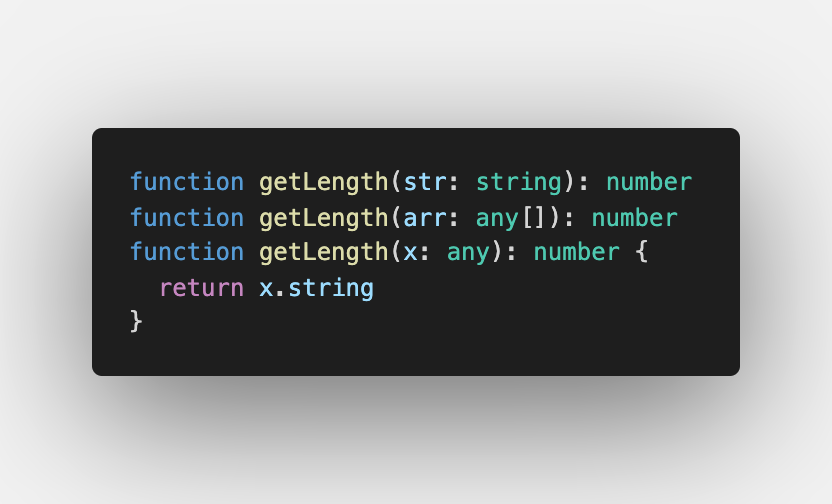
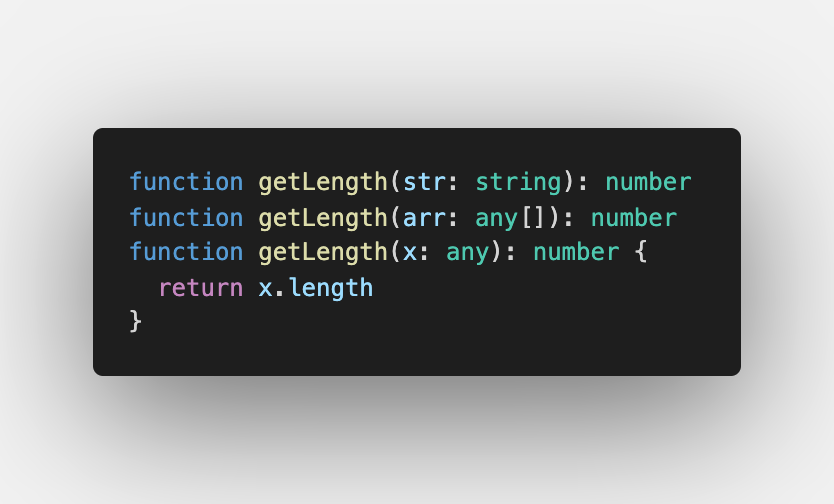
docs: 🔄 update getLength

diff --git a/packages/blog/content/blog/2021-03-22-typed-get/examples.ts b/packages/blog/content/blog/2021-03-22-typed-get/examples.ts
@@ -346,7 +346,7 @@ type GetWithArray<O, K> = K extends []
 function getLength(str: string): number
 function getLength(arr: any[]): number
 function getLength(x: any): number {
-  return x.string
+  return x.length
 }
 
 /* rewrite get */
